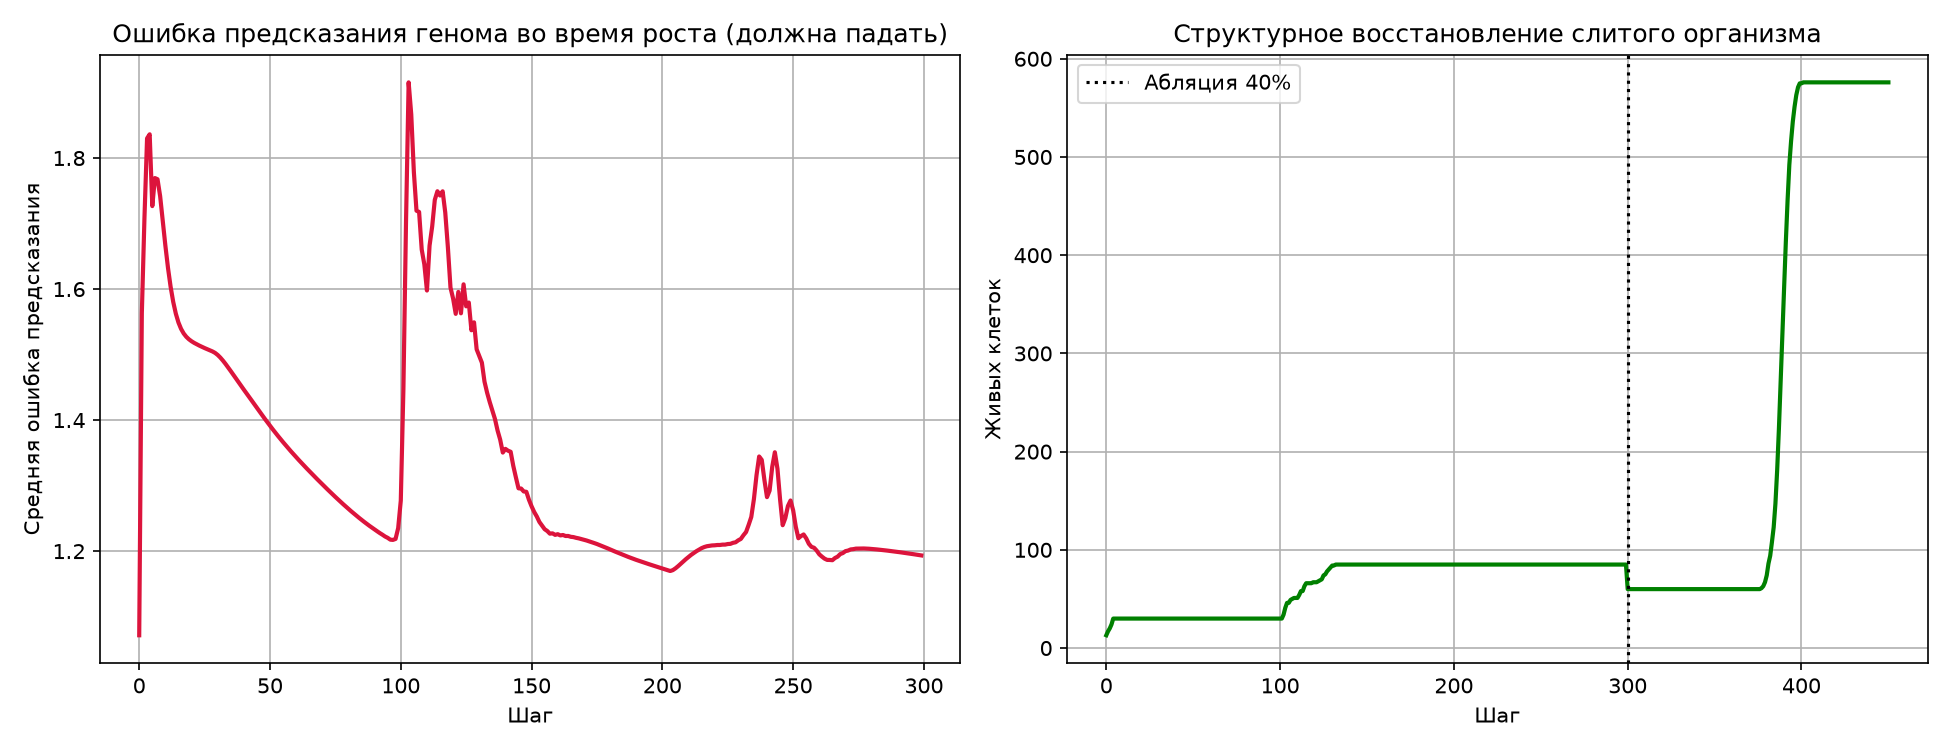
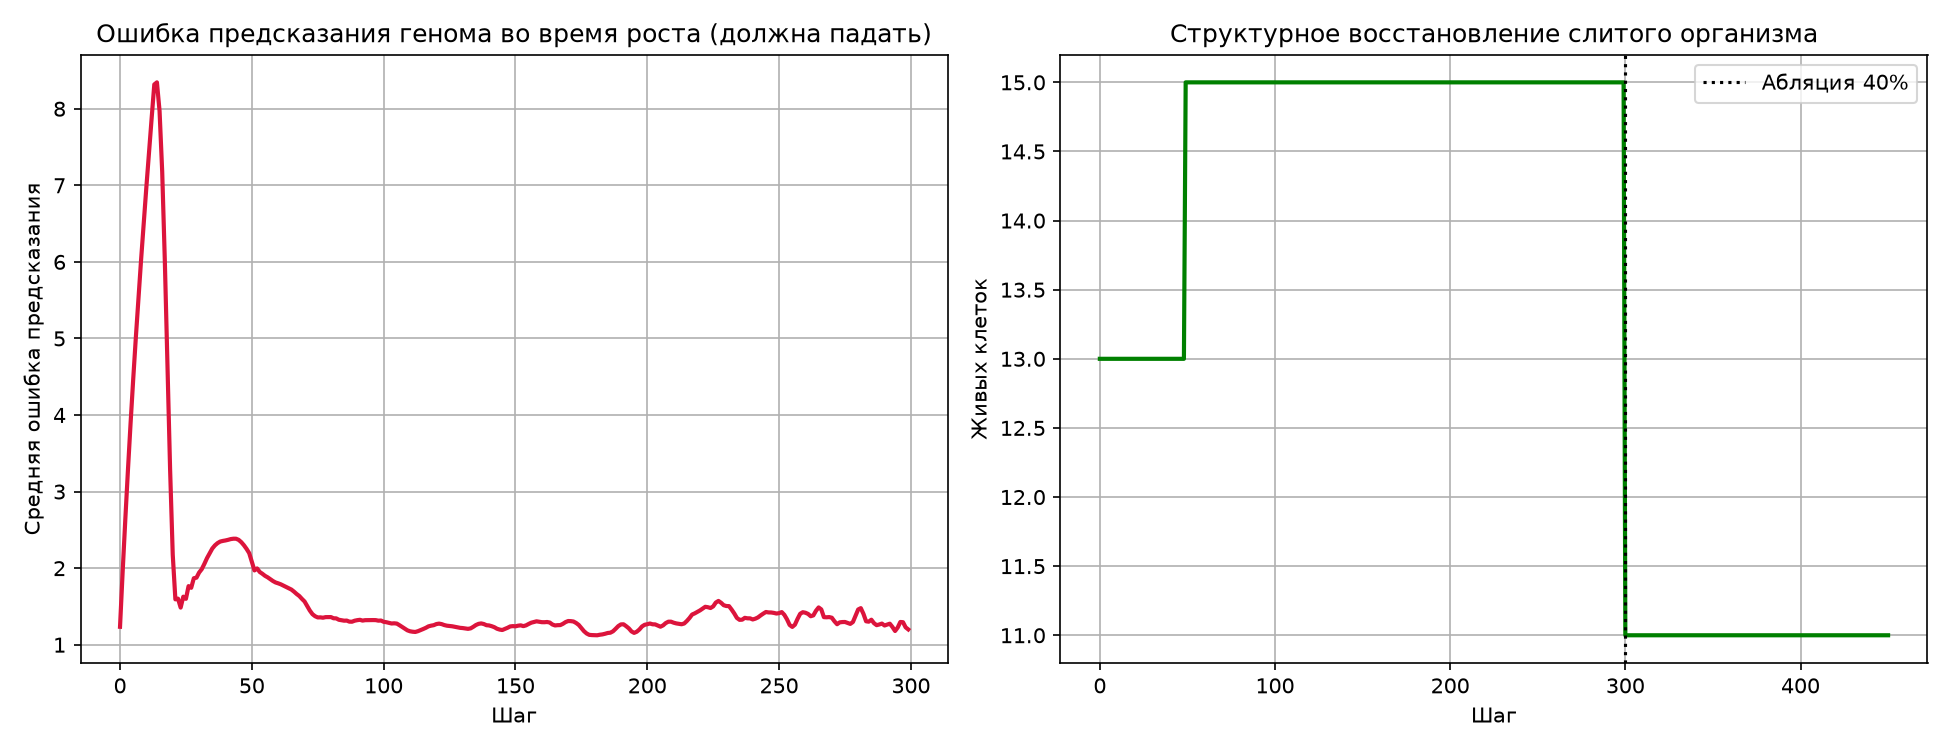
Recalibrate growth threshold using the now-known error floor. Swept 1.6/1.9/2.2/1.65-1.80: found stable window 1.65-1.80 (settles at n=15, no runaway, no stall). Full merged test with th=1.7: growth stable, genome learns (1.23->1.20), tagged memory excellent (19/20 vs 5/20) - BUT post-ablation regen

diff --git a/core/unified_organism.py b/core/unified_organism.py
@@ -215,7 +215,7 @@ class LivingTissue:
         self.stress_ema = torch.where(alive_before, (1 - self.ema_decay) * self.stress_ema + self.ema_decay * stress_map, self.stress_ema)
         self.growth_ema = torch.where(alive_before, (1 - self.growth_ema_decay) * self.growth_ema + self.growth_ema_decay * stress_map, self.growth_ema)
         die_th = self.stress_ema * self.decay_ratio
-        grow_th_fixed = 1.6
+        grow_th_fixed = 1.7
         self._step_count += 1
         evaluate_growth = self.growth_enabled and (self._step_count % self.growth_period == 0)
 

diff --git a/docs/VERIFICATION_LOG.md b/docs/VERIFICATION_LOG.md
@@ -147,6 +147,7 @@ gate**: шаг обучения сам тормозится, когда быст
 | Приоритет памяти по силе метки (synaptic tagging and capture, Redondo & Morris) | ✅ сильный эффект: 95% (высокая метка) vs 25% (низкая) |
 | SDR-разреженность в быстрой памяти внутри слитой системы | ✅ (была забыта в первой версии, добавлена — без неё 40%/5%) |
 | Сходимость генома в растущей (нестационарной) ткани | ✅ **на самом деле сходится - прошлый диагноз "не сходится" был ошибкой измерения** — `experiments/genome_convergence_probes.py`, 5 гипотез на честно зафиксированной (рост выключен) популяции. (A) baseline: early=4.27→late=1.24, реальное падение на 71% - раньше я сравнивал только позднюю часть обучения саму с собой и принял шум вокруг УЖЕ достигнутого пола за несходимость. (B) relax_steps=45 не отличается от 15 - не было узким местом. (C) **без сенсорной инъекции ошибка падает до 0.073** (!) - доказывает, что "пол" ~1.2-1.4 при инъекции - это genuine irreducible prediction error от непредсказуемого внешнего сигнала, не баг. (D) target=только chemistry (без alive/stress) сделал ХУЖЕ (0.98→1.24) - гипотеза отклонена экспериментально, не принята на веру. **Побочный вывод:** порог роста (1.6) оказался в опасной близости к естественному полу ошибки (~1.2-1.3) - вероятная настоящая причина чувствительности роста, которую предыдущие попытки (лимит скорости, калибровка при рождении, EMA) пытались лечить не с той стороны |
+| Перекалибровка порога роста с учётом известного пола ошибки | ✅ найдено стабильное окно, но с новым честным компромиссом | Развёртка порога: 1.6 → заливка всего холста (576), 1.9-2.2 → рост вообще не начинается (застревает на seed=13), **1.65-1.80 → стабильное окно** (13→15, держится 350+ шагов). С th=1.7 полный слитый тест: рост стабилен, геном учится (1.23→1.20), память с приоритетом отлична (19/20 vs 5/20) - **но регенерация после абляции пропала** (11→11, 0% дорастания за 150 шагов восстановления) - обратная сторона той же калибровки: правильно настроенный порог означает, что ткань вокруг раны уже достаточно хорошо предсказывает локальный контекст (геном обучен), и ошибка там не поднимается выше порога, чтобы запустить регенерацию. Честный, точно охарактеризованный trade-off между стабильностью роста и способностью к регенерации, не решённый одним числом |
 | Устойчивость роста при цикле повреждение→восстановление | 🔴 **не решено** — после трёх раундов отладки (лимит скорости роста, калибровка EMA при рождении, фиксированный порог 1.6) начальный рост стал ограниченным (13→85 за 300 шагов), но при регенерации после абляции снова заливает весь холст (60→576) |
 
 **Почему это ценная находка, а не провал сессии:** ровно то, что мы сами предсказывали в предыдущем ответе — слияние проверенных по отдельности компонентов вскрывает НОВЫЕ баги на стыках (нестационарность обучения при росте, разное поведение порога роста при первом росте vs регенерации), которых не было видно, пока компоненты жили в разных файлах. Компоненты по отдельности работают ровно так, как проверено; вместе — уже нет, и теперь мы знаем, где именно.
